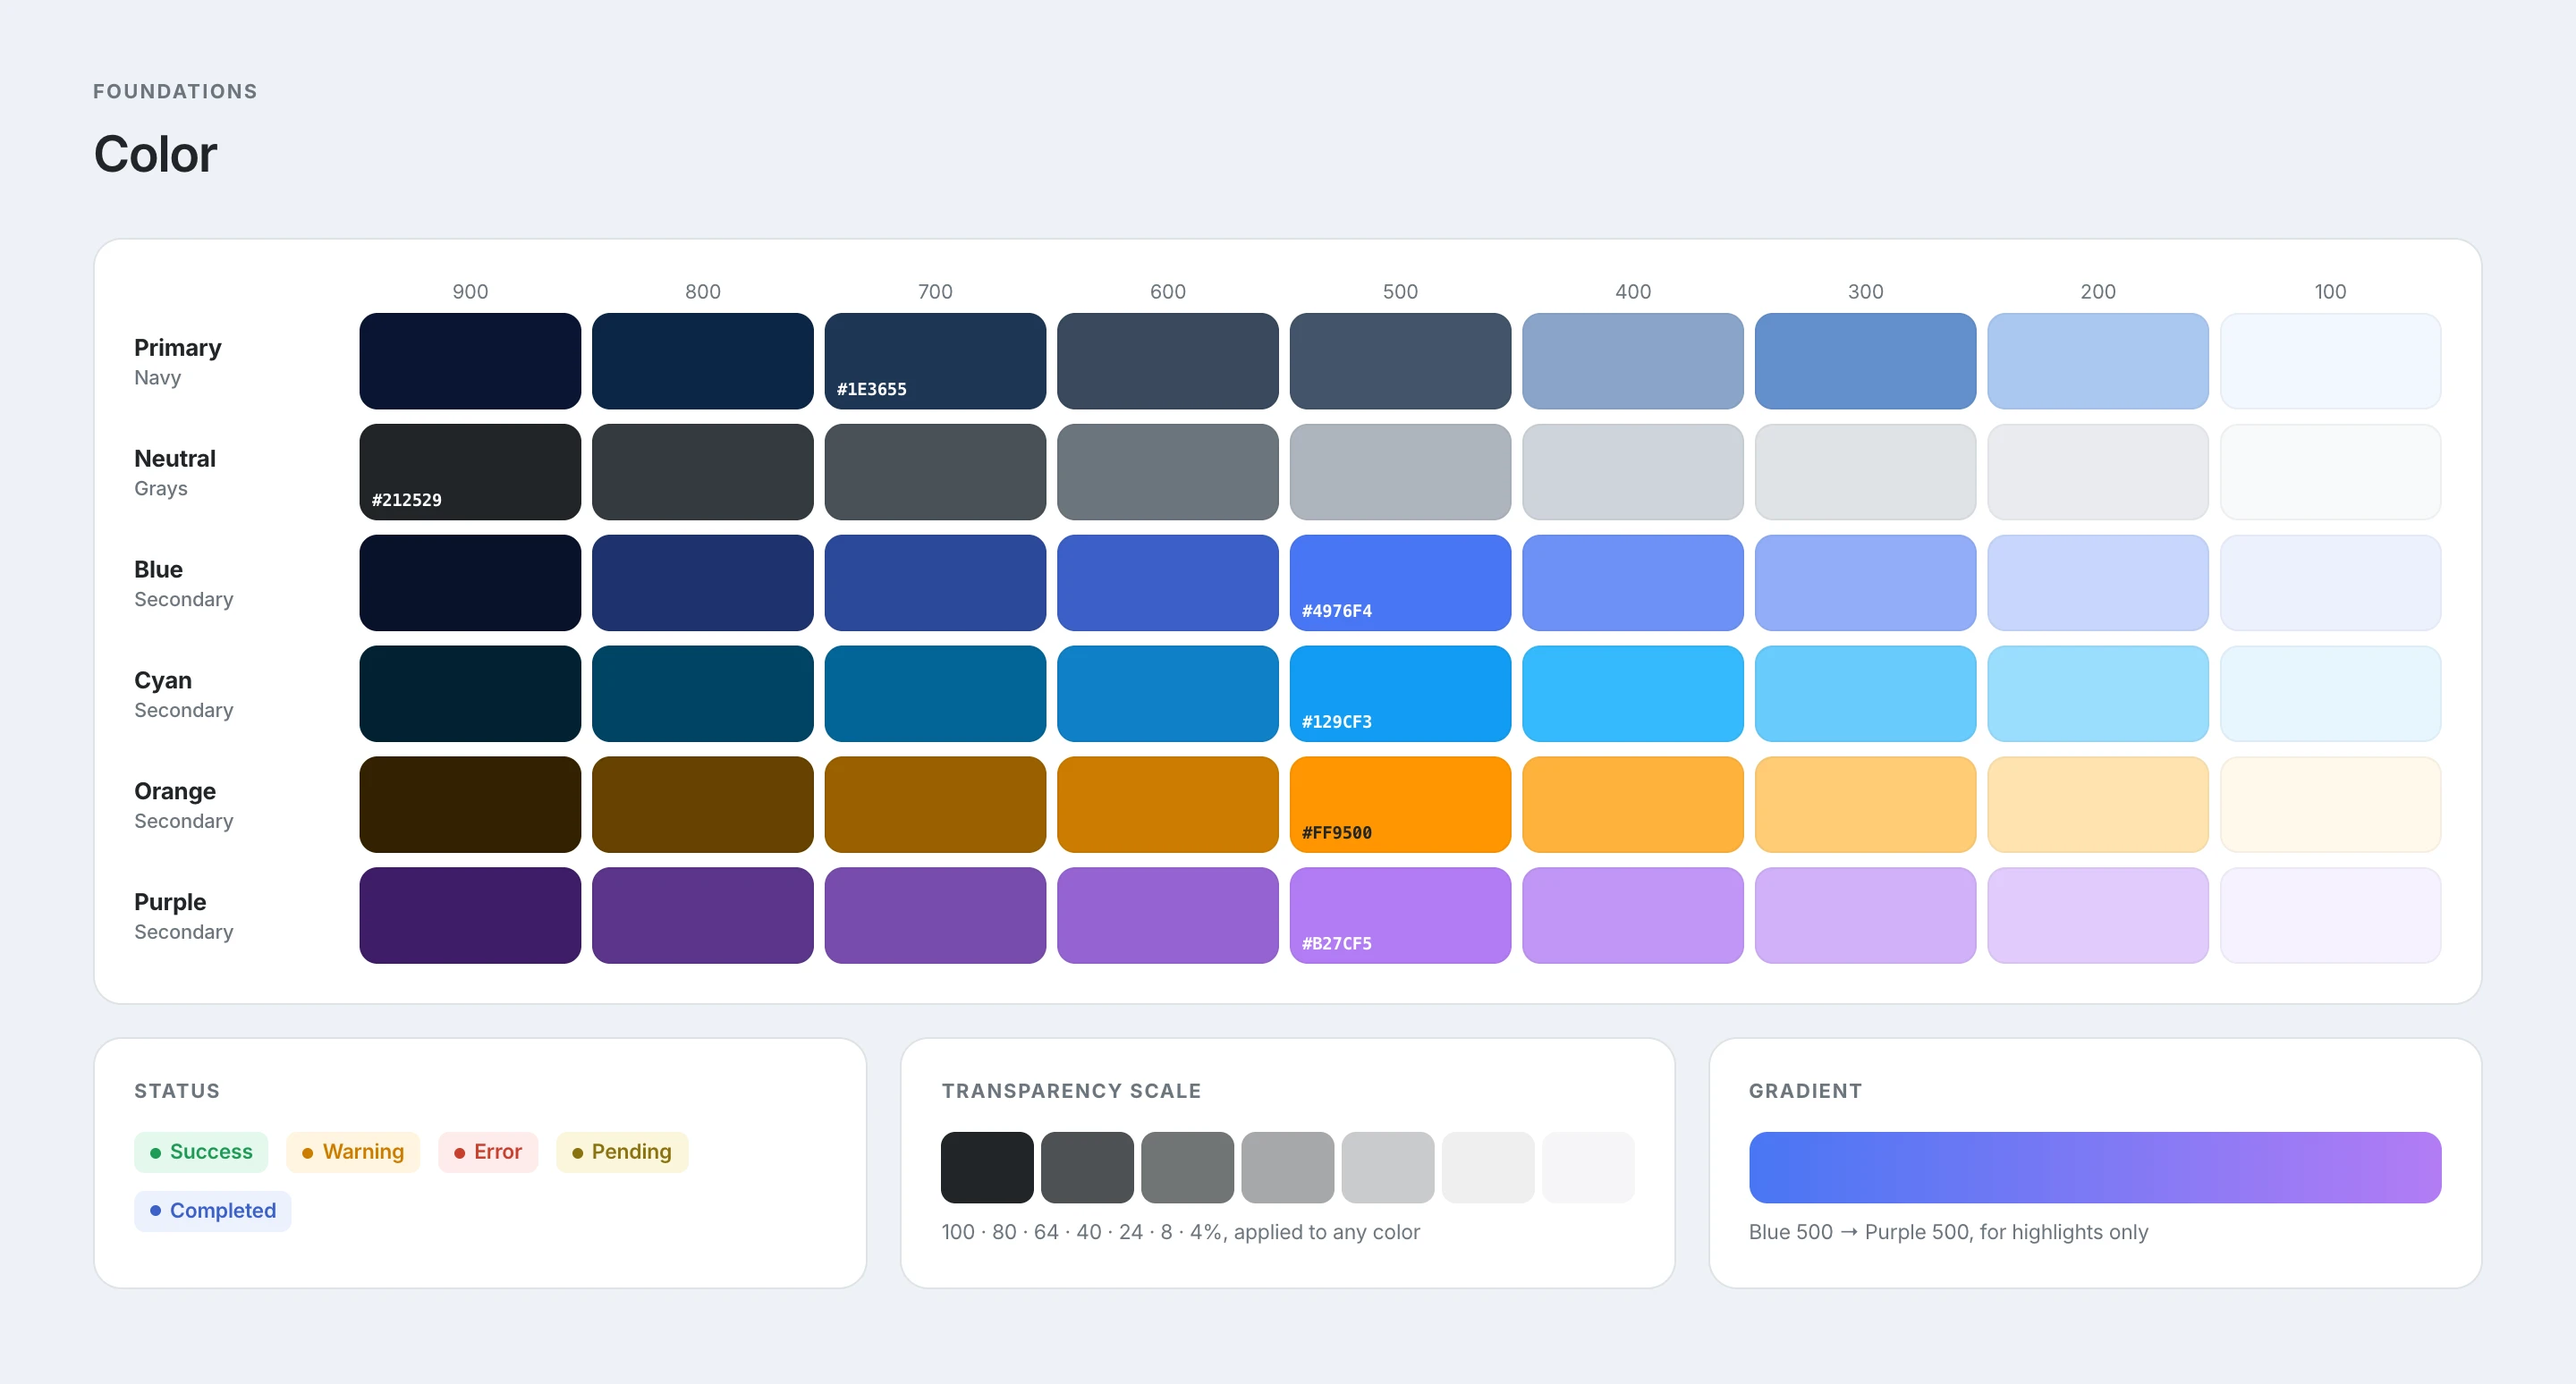
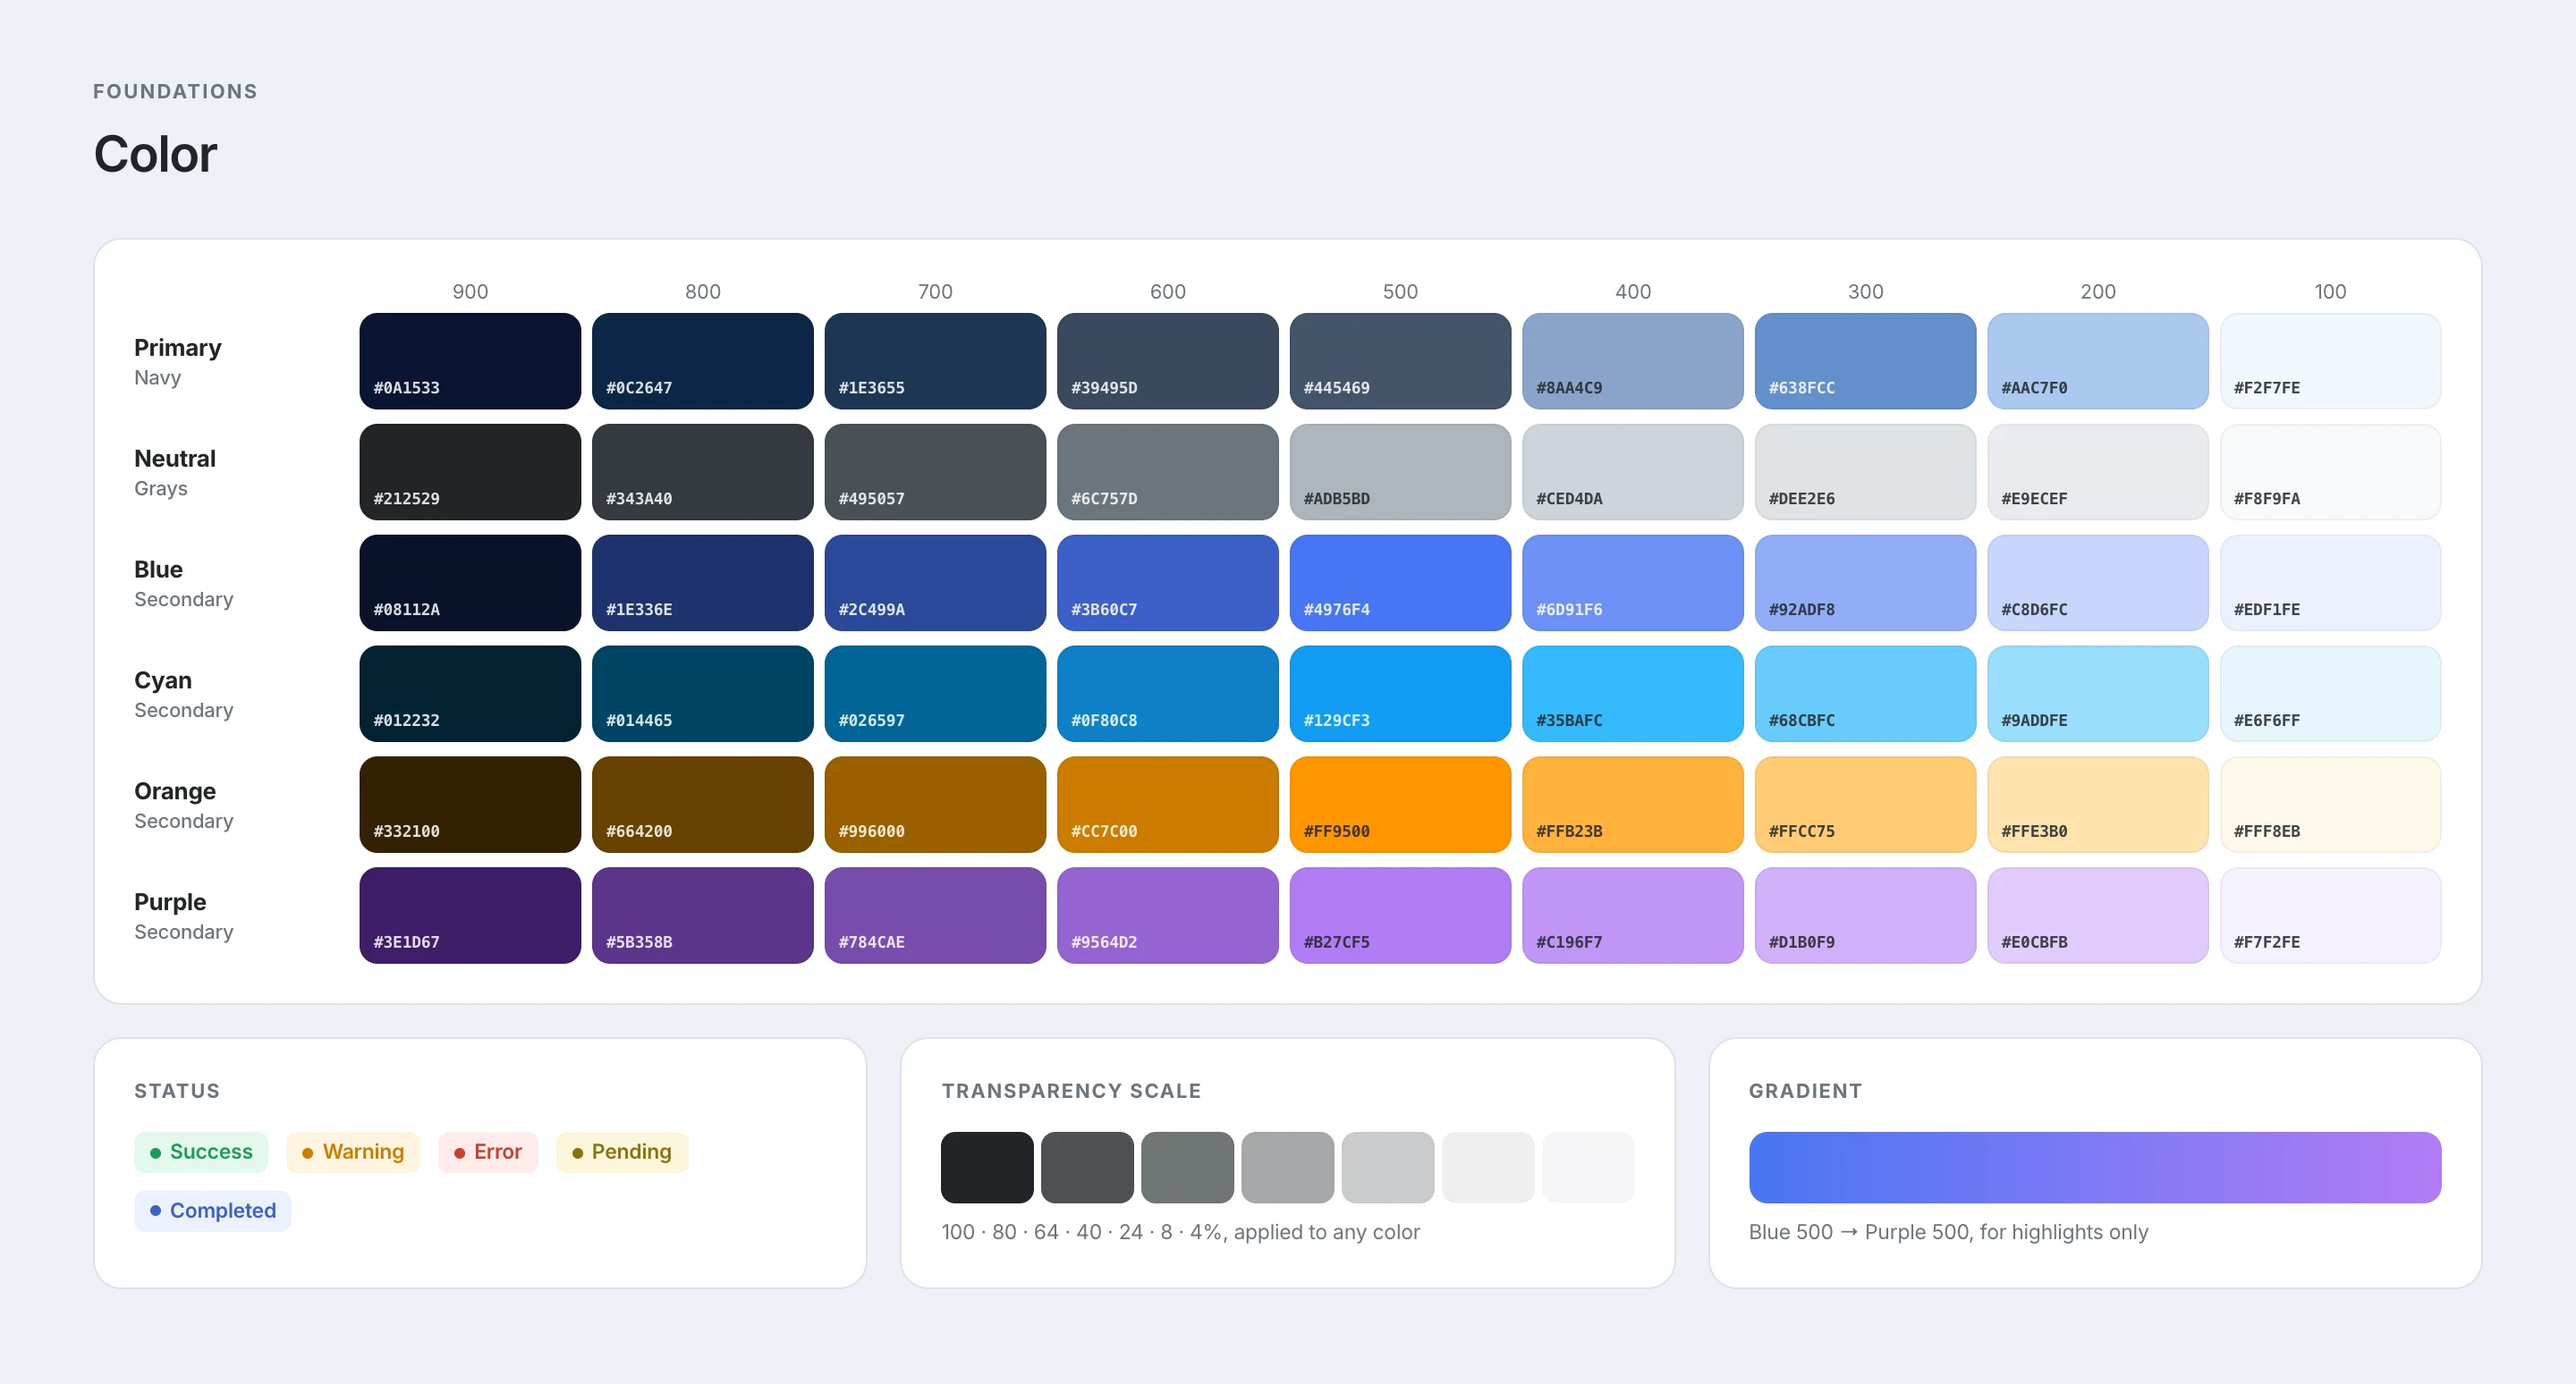
Add brand and visual work; trim More work; label every DS 1.0 swatch
Removes Rastrea Patitas, DeliveryYa and My Valentine from More work.

diff --git a/case-brand.html b/case-brand.html
@@ -1,0 +1,28 @@
+<!doctype html>
+<html lang="en"><head><meta charset="UTF-8" /><meta name="viewport" content="width=device-width, initial-scale=1" />
+<title>Brand &amp; Visual Work — Irene Porro | Irene Porro</title>
+<meta name="description" content="Brand identity and social media work by Irene Porro: a taqueria style guide, menu and social posts, and a brand manual for a product studio." />
+<link rel="icon" href="./assets/favicon.ico?v=2" sizes="any" /><link rel="icon" href="./assets/favicon.svg?v=2" type="image/svg+xml" />
+<link rel="preconnect" href="https://fonts.googleapis.com" /><link rel="preconnect" href="https://fonts.gstatic.com" crossorigin /><link href="https://fonts.googleapis.com/css2?family=Inter:wght@400;500;600;700;800&display=swap" rel="stylesheet" />
+<link rel="stylesheet" href="./meralis-case.css?v=2" />
+<link rel="stylesheet" href="./brand-case.css" />
+
+</head><body class="brandp">
+<a class="skip-link" href="#main">Skip to case study</a>
+<header class="case-nav"><a class="back" href="./index.html#work">← <span>Irene Porro / Selected work</span></a><nav aria-label="Case study"><a href="#elburro">El Burro</a><a href="#studio">Product studio</a></nav><a class="contact" href="./index.html#contact">Let’s talk ↗</a></header>
+<main id="main">
+<section class="meralis-intro wrap" id="overview">
+  <div class="intro-meta"><span class="brand bp-brand"><b>✦</b>Brand &amp; visual work</span><span>Identity · Social media · Print</span></div>
+  <p class="eyebrow">Visual design</p>
+  <h1>Brand work outside<br><em>product screens.</em></h1>
+  <div class="intro-bottom"><p>Two smaller projects that show the visual side of my work: a style guide, menu and social posts for a taqueria, and a brand manual for the product studio I worked at.</p></div>
+</section>
+<section class="chapter wrap" id="elburro"><div class="chapter-heading"><p class="eyebrow">01 / El Burro · Tacos &amp; Beer</p><h2>A style guide, a menu and a social feed for a taqueria.</h2></div><div class="chapter-copy"><p>El Burro needed a look that worked on Instagram and in the restaurant. I built a small style guide (a red and yellow palette, Baloo for headlines and a hand-drawn accent font), then applied it to the printed menu and a set of social posts that mix food photography with bold type.</p></div></section>
+<div class="wrap"><figure class="screen-figure"><div class="screen-stage"><a class="screen-zoom" href="./assets/brand/elburro-cover.webp" data-zoom aria-label="Enlarge: El Burro style guide cover with the round logo"><img src="./assets/brand/elburro-cover.webp" alt="El Burro style guide cover with the round logo" loading="lazy" decoding="async" width="1600" height="900" /></a></div><figcaption><span>Style guide cover</span></figcaption></figure></div>
+<div class="wrap bp-duo"><figure class="screen-figure"><div class="screen-stage"><a class="screen-zoom" href="./assets/brand/elburro-social.webp" data-zoom aria-label="Enlarge: Grid of twelve social media posts"><img src="./assets/brand/elburro-social.webp" alt="Grid of twelve social media posts" loading="lazy" decoding="async" width="1600" height="2102" /></a></div><figcaption><span>Social media posts</span></figcaption></figure><figure class="screen-figure"><div class="screen-stage"><a class="screen-zoom" href="./assets/brand/elburro-menu.webp" data-zoom aria-label="Enlarge: Printed menu with drinks, tacos, sides and a QR code"><img src="./assets/brand/elburro-menu.webp" alt="Printed menu with drinks, tacos, sides and a QR code" loading="lazy" decoding="async" width="1600" height="2249" /></a></div><figcaption><span>Menu</span></figcaption></figure></div>
+<div class="wrap bp-duo"><figure class="screen-figure"><div class="screen-stage"><a class="screen-zoom" href="./assets/brand/elburro-palette.webp" data-zoom aria-label="Enlarge: Color palette and typography for El Burro"><img src="./assets/brand/elburro-palette.webp" alt="Color palette and typography for El Burro" loading="lazy" decoding="async" width="1600" height="2970" /></a></div><figcaption><span>Color and type</span></figcaption></figure><figure class="screen-figure"><div class="screen-stage"><a class="screen-zoom" href="./assets/brand/elburro-style.webp" data-zoom aria-label="Enlarge: Style section divider with the donkey illustration"><img src="./assets/brand/elburro-style.webp" alt="Style section divider with the donkey illustration" loading="lazy" decoding="async" width="1600" height="900" /></a></div><figcaption><span>Style section</span></figcaption></figure></div>
+<section class="chapter wrap" id="studio"><div class="chapter-heading"><p class="eyebrow">02 / Product studio brand manual</p><h2>Brand guidelines for a no-code product studio.</h2></div><div class="chapter-copy"><p>For the agency I worked at, I wrote and designed the brand manual: logo and its variants, the slash symbol, colors, typography, logo rules and how to use the brand on the website, social media and presentations. The studio name is changed here; colors, type and rules are the real ones.</p></div></section>
+<div class="wrap"><figure class="screen-figure"><div class="screen-stage"><a class="screen-zoom" href="./assets/brand/identity.webp" data-zoom aria-label="Enlarge: Logo, mission and logo variants"><img src="./assets/brand/identity.webp" alt="Logo, mission and logo variants" loading="lazy" decoding="async" width="2880" height="1384" /></a></div><figcaption><span>Logo and variants</span></figcaption></figure></div>
+<div class="wrap"><figure class="screen-figure"><div class="screen-stage"><a class="screen-zoom" href="./assets/brand/system.webp" data-zoom aria-label="Enlarge: Colors, typography and logo rules"><img src="./assets/brand/system.webp" alt="Colors, typography and logo rules" loading="lazy" decoding="async" width="2880" height="1484" /></a></div><figcaption><span>Color, type and logo rules</span></figcaption></figure></div>
+<footer class="case-footer wrap"><div><span>Want to see more?</span><h2>Let’s talk.</h2></div><a class="primary-link" href="./index.html#contact">Contact Irene ↗</a><a href="./more-work.html">← Back to more work</a></footer>
+</main><dialog class="image-dialog" aria-label="Enlarged image"><form method="dialog"><button aria-label="Close">Close ×</button></form><img alt="" /><p></p></dialog><script src="./meralis-case.js"></script></body></html>

diff --git a/more-work.html b/more-work.html
@@ -164,102 +164,18 @@
           </div>
         </article>
 
-        <article class="legacy-card pet-work-card reveal">
-          <a
-            class="legacy-card-link"
-            href="./case-rastrea-patitas.html"
-            aria-label="Open Rastrea Patitas case study"
-          ></a>
-          <figure class="legacy-cover">
-            <img
-              src="./assets/rastrea-patitas/web/cover.jpg"
-              alt="Rastrea Patitas responsive web case study cover"
-              width="1600"
-              height="1038"
-              loading="lazy"
-              decoding="async"
-            />
-          </figure>
+        <article class="legacy-card brand-work-card reveal">
+          <a class="legacy-card-link" href="./case-brand.html" aria-label="Open brand and visual work"></a>
+          <figure class="legacy-cover" style="background:#c62828"><img src="./assets/brand/elburro-cover.webp" alt="El Burro style guide cover" width="1600" height="900" loading="lazy" decoding="async" style="width:100%;height:100%;object-fit:cover" /></figure>
           <div class="legacy-copy">
-            <div class="case-meta">
-              <span>Responsive Web</span>
-              <span>Product Design</span>
-              <span>Research</span>
-              <span>MVP</span>
-            </div>
-            <h3>Rastrea Patitas</h3>
-            <p>
-              A responsive platform concept for reporting lost pets, creating
-              alerts and helping owners reconnect through QR codes, posters and
-              community-driven search.
-            </p>
-            <span class="legacy-open">Open case study <b aria-hidden="true">↗</b></span>
+            <div class="case-meta"><span>Brand identity</span><span>Social media</span><span>Print</span></div>
+            <h3>Brand &amp; visual work</h3>
+            <p>A style guide, menu and social posts for a taqueria, and a brand manual for a product studio.</p>
+            <span class="legacy-open">Open <b aria-hidden="true">↗</b></span>
           </div>
         </article>
 
-        <article class="legacy-card delivery-work-card reveal">
-          <a
-            class="legacy-card-link"
-            href="./case-deliveryya.html"
-            aria-label="Open DeliveryYa case study"
-          ></a>
-          <figure class="legacy-cover">
-            <img
-              src="./assets/deliveryya/web/cover.jpg"
-              alt="DeliveryYa mobile food delivery app concept cover"
-              width="808"
-              height="632"
-              loading="lazy"
-              decoding="async"
-            />
-          </figure>
-          <div class="legacy-copy">
-            <div class="case-meta">
-              <span>Mobile UX</span>
-              <span>Food Delivery</span>
-              <span>E-commerce</span>
-              <span>UI Concept</span>
-            </div>
-            <h3>DeliveryYa</h3>
-            <p>
-              A mobile food delivery concept focused on restaurant discovery,
-              browsing, filters, item customization and a clear ordering flow.
-            </p>
-            <span class="legacy-open">Open case study <b aria-hidden="true">↗</b></span>
-          </div>
-        </article>
 
-        <article class="legacy-card valentine-work-card reveal">
-          <a
-            class="legacy-card-link"
-            href="./case-my-valentine.html"
-            aria-label="Open My Valentine case study"
-          ></a>
-          <figure class="legacy-cover">
-            <img
-              src="./assets/my-valentine/web/cover.jpg"
-              alt="My Valentine privacy-focused dating app concept cover"
-              width="1024"
-              height="768"
-              loading="lazy"
-              decoding="async"
-            />
-          </figure>
-          <div class="legacy-copy">
-            <div class="case-meta">
-              <span>Mobile App</span>
-              <span>UX Research</span>
-              <span>Privacy</span>
-              <span>Visual Design</span>
-            </div>
-            <h3>My Valentine</h3>
-            <p>
-              A dating app concept exploring safer digital connection, privacy
-              concerns, onboarding, user flows and a warm mobile visual system.
-            </p>
-            <span class="legacy-open">Open case study <b aria-hidden="true">↗</b></span>
-          </div>
-        </article>
       </section>
     </main>
     <script src="./premium.js"></script>

diff --git a/brand-case.css b/brand-case.css
@@ -1,0 +1,8 @@
+body.brandp { --brand:#c62828; --soft:#fdecea; --line:#eee6e2; }
+.brandp h1 em { font-style:normal; color:#c62828; }
+.brandp .bp-brand b { width:36px; height:36px; border-radius:11px; background:#f7c948; color:#c62828; font-size:17px; }
+.brandp .primary-link { background:#c62828; }
+.brandp .screen-stage { background:#f7f3ef; }
+.brandp .wrap + .wrap { margin-top:28px; }
+.bp-duo { display:grid; grid-template-columns:1fr 1fr; gap:24px; align-items:start; }
+@media (max-width:760px) { .bp-duo { grid-template-columns:1fr; } }
